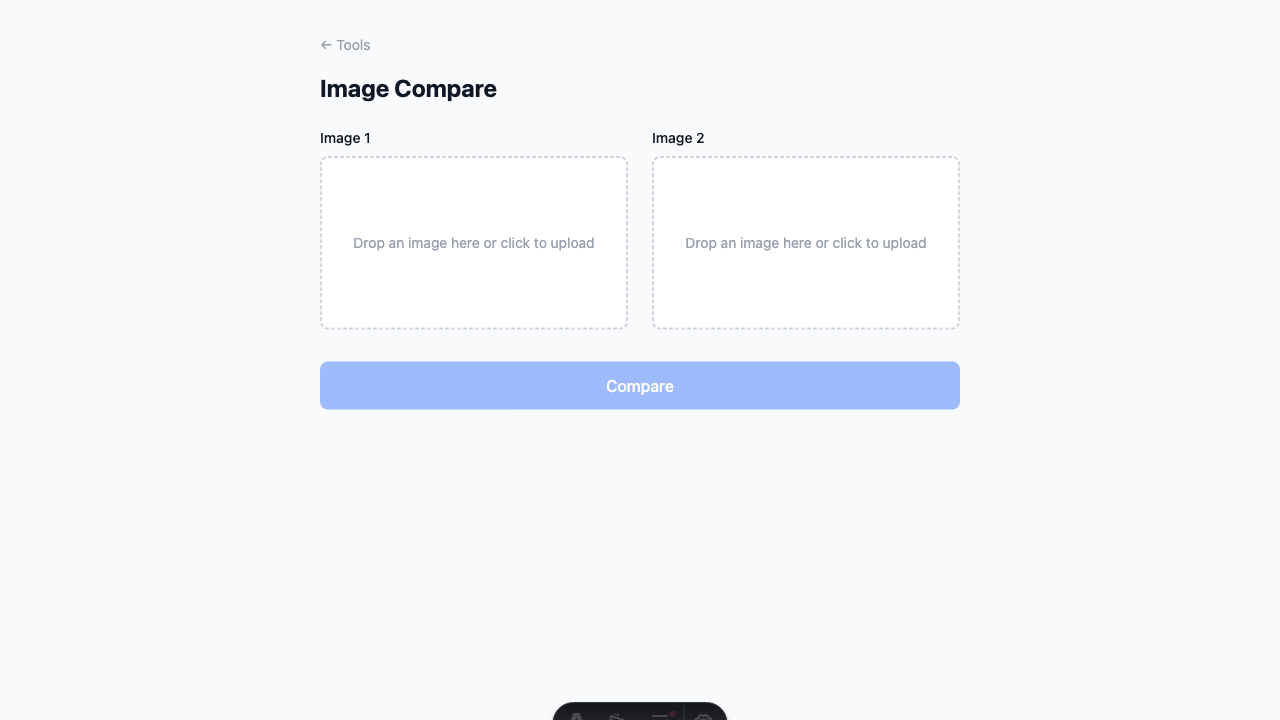
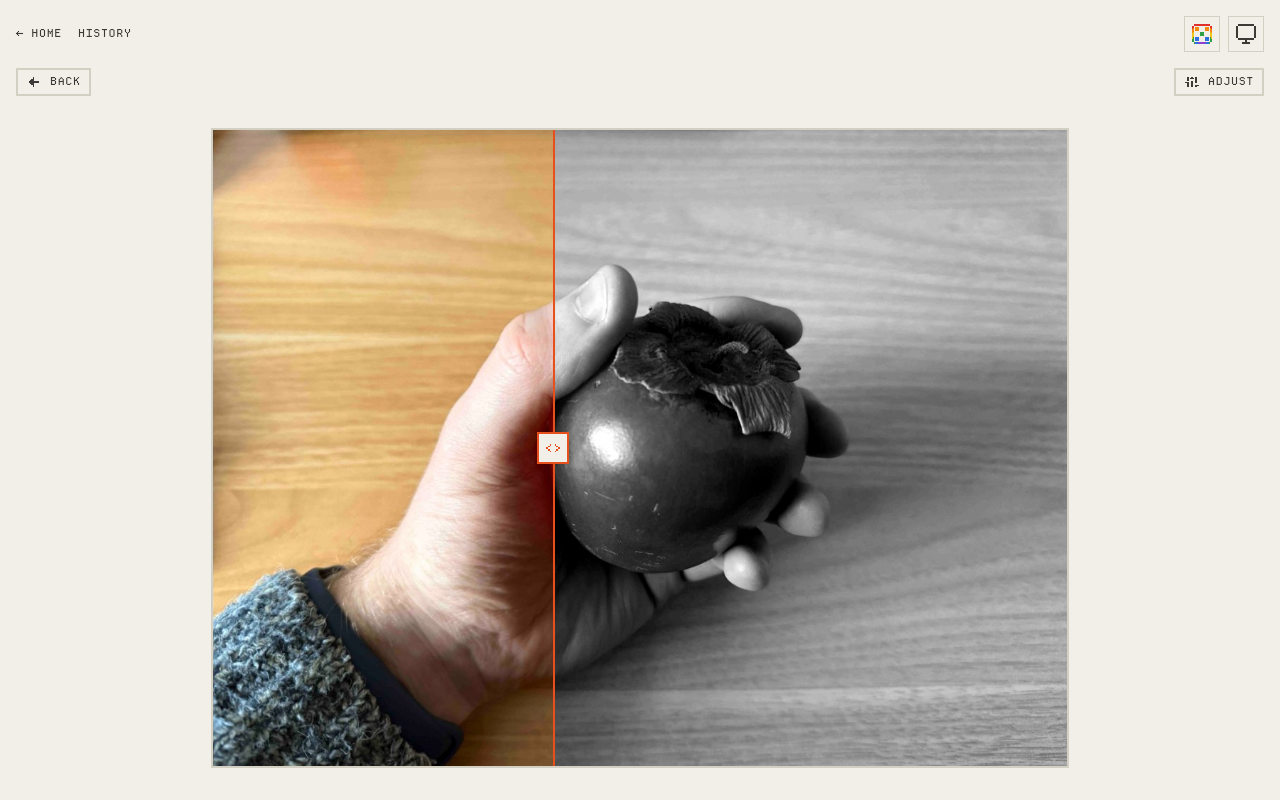
feat(image-compare): the tool sits on PixelAppLayout, wide, and draws its slots, divider and adjust bar from the pixel kit (#84)
- **The page is `wide`**
  - two slots side by side and the overlay both want the window's width, not the notes' 720px column
- **Each slot is a `FileDrop`**
  - the slot's own drag state and hidden input go; "Drop to replace" shows from `.pixel-file`'s `data-dragover`
  - "Tap to replace" is now a hint inside the picker rather than its own button, since the whole slot opens the picker
- **The compare view no longer forces a dark page**
  - it follows the theme like the rest of the site; the divider and its handle are `accent`, with no shadow
  - the two `#666` strokes on the handle's arrows became a pixelarticons chevron in `currentColor`
- **The app bar comes from the layout**
  - the tool's nav row, theme toggle and history link go, and with them the `historyUrl` prop
- **Saved state is untouched**
  - `localStorage["image-compare"]` keeps its key and shape; the storage-contract test still passes
- **The card's screenshot is dithered as `image`**
  - it is mostly the photo pair under the divider

diff --git a/src/pages/image-compare/_app/app.jsx b/src/pages/image-compare/_app/app.jsx
@@ -1,6 +1,12 @@
 import React, { useState, useRef, useCallback, useEffect } from 'react';
 import { createRoot } from 'react-dom/client';
-import { ThemeToggle } from '../../../components/ThemeToggle.jsx';
+import imageIcon from 'pixelarticons/svg/image.svg?raw';
+import swapIcon from 'pixelarticons/svg/arrows-horizontal.svg?raw';
+import backIcon from 'pixelarticons/svg/arrow-left.svg?raw';
+import adjustIcon from 'pixelarticons/svg/sliders.svg?raw';
+import handleIcon from 'pixelarticons/svg/chevrons-horizontal.svg?raw';
+import { FileDrop } from '../../../components/pixel/FileDrop.jsx';
+import { Icon } from '../../../components/pixel/Icon.jsx';
 
 const MAX_DIM = 2000;
 const QUALITY = 0.85;
@@ -49,146 +55,70 @@ function saveStored(data) {
 }
 
 function ImageSlot({ label, value, onImage }) {
-  const [dragOver, setDragOver] = useState(false);
-  const inputRef = useRef(null);
-
   const processFile = async (file) => {
     if (!file || !file.type.startsWith('image/')) return;
     const dataUrl = await compressImage(file);
     onImage(dataUrl);
   };
 
-  const handleDrop = (e) => {
-    e.preventDefault();
-    setDragOver(false);
-    processFile(e.dataTransfer.files?.[0]);
-  };
-
-  if (value) {
-    return (
-      <div>
-        <label className="block text-sm font-medium mb-2">{label}</label>
-        <div
-          className={`relative border-2 rounded-lg overflow-hidden aspect-video bg-white dark:bg-gray-800 group ${
-            dragOver
-              ? 'border-blue-400 bg-blue-50 dark:bg-blue-900/20'
-              : 'border-gray-200 dark:border-gray-700'
-          }`}
-          onDrop={handleDrop}
-          onDragOver={(e) => { e.preventDefault(); setDragOver(true); }}
-          onDragLeave={() => setDragOver(false)}
-        >
-          <img src={value} alt={label} className="w-full h-full object-contain" />
-          {dragOver && (
-            <div className="absolute inset-0 bg-blue-500/20 flex items-center justify-center">
-              <span className="text-white text-sm font-medium bg-blue-600 px-3 py-1 rounded">
-                Drop to replace
-              </span>
-            </div>
-          )}
-          <button
-            onClick={() => inputRef.current?.click()}
-            className="absolute bottom-2 right-2 text-xs px-2 py-1 rounded bg-black/50 text-white sm:opacity-0 sm:group-hover:opacity-100 transition-opacity"
-          >
-            Tap to replace
-          </button>
-          <input
-            ref={inputRef}
-            type="file"
-            accept="image/*"
-            className="hidden"
-            onChange={(e) => processFile(e.target.files?.[0])}
-          />
-        </div>
-      </div>
-    );
-  }
-
   return (
-    <div>
-      <label className="block text-sm font-medium mb-2">{label}</label>
-      <div
-        onDrop={handleDrop}
-        onDragOver={(e) => { e.preventDefault(); setDragOver(true); }}
-        onDragLeave={() => setDragOver(false)}
-        onClick={() => inputRef.current?.click()}
-        className={`relative border-2 border-dashed rounded-lg overflow-hidden aspect-video flex items-center justify-center bg-white dark:bg-gray-800 transition-colors cursor-pointer ${
-          dragOver
-            ? 'border-blue-400 bg-blue-50 dark:bg-blue-900/20'
-            : 'border-gray-300 dark:border-gray-600 hover:border-gray-400 dark:hover:border-gray-500'
-        }`}
+    <div className="min-w-0">
+      <div className="label mb-2">{label}</div>
+      <FileDrop
+        accept="image/*"
+        onFiles={(files) => processFile(files[0])}
+        className="group aspect-video overflow-hidden"
       >
-        <span className="text-gray-400 text-sm text-center px-4">
-          Drop an image here or click to upload
-        </span>
-        <input
-          ref={inputRef}
-          type="file"
-          accept="image/*"
-          className="hidden"
-          onChange={(e) => processFile(e.target.files?.[0])}
-        />
-      </div>
+        {value ? (
+          <>
+            <img src={value} alt={label} className="absolute inset-0 w-full h-full object-contain" />
+            <span className="absolute inset-0 hidden group-data-dragover:flex items-center justify-center bg-bg/80 text-accent">
+              Drop to replace
+            </span>
+            <span className="absolute bottom-0 right-0 px-2 py-1 bg-bg border-t-2 border-l-2 border-border sm:opacity-0 sm:group-hover:opacity-100">
+              Tap to replace
+            </span>
+          </>
+        ) : (
+          <>
+            <Icon svg={imageIcon} className="w-8 h-8" />
+            <span>Drop an image here or click to upload</span>
+          </>
+        )}
+      </FileDrop>
     </div>
   );
 }
 
-function UploadScreen({ historyUrl, image1, image2, onImage, onSwap, onCompare }) {
+function UploadScreen({ image1, image2, onImage, onSwap, onCompare }) {
   return (
-    <div className="min-h-screen bg-gray-50 dark:bg-gray-900 text-gray-900 dark:text-gray-100">
-      <div className="max-w-2xl mx-auto px-4 py-8">
-        <nav className="flex items-center gap-3 text-sm text-gray-400">
-          <a
-            href="../"
-            className="inline-flex items-center gap-1 hover:text-gray-600 dark:hover:text-gray-300 transition-colors"
-          >
-            ← Home
-          </a>
-          {historyUrl && (
-            <a
-              href={historyUrl}
-              target="_blank"
-              rel="noopener"
-              className="hover:text-gray-600 dark:hover:text-gray-300 transition-colors"
-            >
-              history
-            </a>
-          )}
-          <ThemeToggle className="ml-auto" />
-        </nav>
+    <div className="text-text">
+      <h1 className="page-title mt-4 mb-2">Image Compare</h1>
+      <p className="page-sub mt-0 mb-8">Lay two images over each other and drag a divider across to compare them. Everything stays in your browser.</p>
 
-        <h1 className="text-2xl font-bold mt-4 mb-6">Image Compare</h1>
+      <div className="grid grid-cols-1 sm:grid-cols-2 gap-6 mb-8 items-end">
+        <ImageSlot label="Image 1" value={image1} onImage={(v) => onImage('image1', v)} />
 
-        <div className="grid grid-cols-1 sm:grid-cols-2 gap-6 mb-8 items-end">
-          <ImageSlot label="Image 1" value={image1} onImage={(v) => onImage('image1', v)} />
+        {image1 && image2 && (
+          <div className="flex justify-center sm:col-span-2 sm:order-3 -my-2 sm:my-0">
+            <button onClick={onSwap} className="pixel-button flex items-center gap-2" title="Swap images">
+              <Icon svg={swapIcon} className="w-4 h-4" />
+              Swap
+            </button>
+          </div>
+        )}
 
-          {image1 && image2 && (
-            <div className="flex justify-center sm:col-span-2 sm:order-3 -my-2 sm:my-0">
-              <button
-                onClick={onSwap}
-                className="inline-flex items-center gap-1.5 text-sm px-3 py-1.5 rounded-full border border-gray-300 dark:border-gray-600 text-gray-500 dark:text-gray-400 hover:text-gray-700 dark:hover:text-gray-200 hover:border-gray-400 dark:hover:border-gray-500 transition-colors"
-                title="Swap images"
-              >
-                <svg width="16" height="16" viewBox="0 0 16 16" fill="none" stroke="currentColor" strokeWidth="1.5" strokeLinecap="round" strokeLinejoin="round">
-                  <path d="M3 5h10M10 2l3 3-3 3" />
-                  <path d="M13 11H3M6 8l-3 3 3 3" />
-                </svg>
-                Swap
-              </button>
-            </div>
-          )}
-
-          <ImageSlot label="Image 2" value={image2} onImage={(v) => onImage('image2', v)} />
-        </div>
-
-        <button
-          disabled={!image1 || !image2}
-          onClick={onCompare}
-          className="w-full py-3 px-6 rounded-lg font-medium text-white bg-blue-600 hover:bg-blue-700 disabled:opacity-40 disabled:cursor-not-allowed transition-colors"
-        >
-          Compare
-        </button>
+        <ImageSlot label="Image 2" value={image2} onImage={(v) => onImage('image2', v)} />
       </div>
+
+      <button
+        disabled={!image1 || !image2}
+        onClick={onCompare}
+        className="pixel-button w-full py-2"
+        data-variant="primary"
+      >
+        Compare
+      </button>
     </div>
   );
 }
@@ -415,28 +345,24 @@ function CompareScreen({ image1, image2, transform1, transform2, onTransformChan
   };
 
   return (
-    <div className="min-h-screen bg-gray-900 text-gray-100 flex flex-col">
-      <div className="px-4 py-3 flex items-center justify-between">
-        <button
-          onClick={onBack}
-          className="inline-flex items-center gap-1 text-sm text-gray-400 hover:text-gray-300 transition-colors"
-        >
-          ← Back
+    <div className="flex-1 flex flex-col gap-4 text-text">
+      <div className="flex items-center justify-between gap-2">
+        <button onClick={onBack} className="pixel-button flex items-center gap-2">
+          <Icon svg={backIcon} className="w-4 h-4" />
+          Back
         </button>
         {mode === 'locked' && (
-          <button
-            onClick={() => setMode('adjusting')}
-            className="text-sm px-3 py-1.5 rounded border border-gray-600 text-gray-400 hover:text-gray-200 hover:border-gray-500 transition-colors"
-          >
+          <button onClick={() => setMode('adjusting')} className="pixel-button flex items-center gap-2">
+            <Icon svg={adjustIcon} className="w-4 h-4" />
             Adjust
           </button>
         )}
       </div>
 
-      <div className="flex-1 flex items-center justify-center p-4">
+      <div className="flex-1 flex items-center justify-center min-h-0">
         <div
           ref={containerRef}
-          className={`relative select-none touch-none overflow-hidden ${
+          className={`relative select-none touch-none overflow-hidden border-2 border-border ${
             mode === 'locked' ? 'cursor-ew-resize' : 'cursor-grab active:cursor-grabbing'
           }`}
           style={{ maxWidth: '100%', maxHeight: mode === 'adjusting' ? '65vh' : '80vh' }}
@@ -477,74 +403,62 @@ function CompareScreen({ image1, image2, transform1, transform2, onTransformChan
             className="absolute top-0 bottom-0 z-10 pointer-events-none"
             style={{ left: `${sliderPos}%`, transform: 'translateX(-50%)' }}
           >
-            <div className="w-0.5 h-full bg-white" style={{ boxShadow: '0 0 4px rgba(0,0,0,0.5)' }} />
-            <div
-              className="absolute top-1/2 -translate-y-1/2 -translate-x-1/2 w-10 h-10 rounded-full bg-white flex items-center justify-center"
-              style={{ boxShadow: '0 0 6px rgba(0,0,0,0.4)' }}
-            >
-              <svg width="18" height="18" viewBox="0 0 16 16" fill="none">
-                <path d="M5 3L2 8L5 13" stroke="#666" strokeWidth="1.5" strokeLinecap="round" strokeLinejoin="round"/>
-                <path d="M11 3L14 8L11 13" stroke="#666" strokeWidth="1.5" strokeLinecap="round" strokeLinejoin="round"/>
-              </svg>
+            <div className="w-0.5 h-full bg-accent" />
+            <div className="absolute top-1/2 -translate-y-1/2 -translate-x-1/2 w-8 h-8 bg-bg border-2 border-accent text-accent flex items-center justify-center">
+              <Icon svg={handleIcon} className="w-5 h-5" />
             </div>
           </div>
 
-          {/* Adjusting mode indicator */}
           {mode === 'adjusting' && (
-            <div className="absolute top-2 left-2 z-20 text-xs px-2 py-1 rounded bg-blue-600/80 text-white">
+            <div className="label absolute top-0 left-0 z-20 px-2 py-1 bg-accent text-bg">
               Adjusting Image {activeNum}
             </div>
           )}
         </div>
       </div>
 
-      {/* Adjust toolbar */}
       {mode === 'adjusting' && (
-        <div className="px-4 py-3 border-t border-gray-700 space-y-3">
+        <div className="pixel-panel p-4 flex flex-col gap-4">
           <div className="flex items-center gap-3">
-            <label className="text-xs text-gray-400 shrink-0 w-12">Rotate</label>
+            <label htmlFor="rotate" className="label shrink-0 w-14">Rotate</label>
             <input
+              id="rotate"
               type="range"
               min="-180"
               max="180"
               value={activeTransform.rotation}
               onChange={(e) => handleRotation(Number(e.target.value))}
-              className="flex-1 accent-blue-500"
+              className="pixel-range flex-1 min-w-0"
             />
-            <span className="text-xs text-gray-400 w-10 text-right tabular-nums">{activeTransform.rotation}°</span>
+            <span className="font-pixel text-pixel tabular-nums w-12 text-right">{activeTransform.rotation}°</span>
           </div>
 
           <div className="flex items-center gap-3">
-            <label className="text-xs text-gray-400 shrink-0 w-12">Zoom</label>
+            <label htmlFor="zoom" className="label shrink-0 w-14">Zoom</label>
             <input
+              id="zoom"
               type="range"
               min="25"
               max="400"
               value={Math.round(activeTransform.scale * 100)}
               onChange={(e) => handleScale(Number(e.target.value))}
-              className="flex-1 accent-blue-500"
+              className="pixel-range flex-1 min-w-0"
             />
-            <span className="text-xs text-gray-400 w-10 text-right tabular-nums">{Math.round(activeTransform.scale * 100)}%</span>
+            <span className="font-pixel text-pixel tabular-nums w-12 text-right">{Math.round(activeTransform.scale * 100)}%</span>
           </div>
 
-          <div className="flex items-center justify-between pt-1">
+          <div className="flex flex-wrap items-center justify-between gap-2">
             <button
               onClick={() => onTransformChange(activeImage, { ...DEFAULT_TRANSFORM })}
-              className="text-xs px-3 py-1.5 rounded border border-gray-600 text-gray-400 hover:text-gray-200 hover:border-gray-500 transition-colors"
+              className="pixel-button"
             >
               Reset
             </button>
             <div className="flex gap-2">
-              <button
-                onClick={() => setActiveImage(otherImage)}
-                className="text-xs px-3 py-1.5 rounded border border-gray-600 text-gray-400 hover:text-gray-200 hover:border-gray-500 transition-colors"
-              >
+              <button onClick={() => setActiveImage(otherImage)} className="pixel-button">
                 Switch to Image {otherNum}
               </button>
-              <button
-                onClick={() => setMode('locked')}
-                className="text-xs px-3 py-1.5 rounded bg-blue-600 text-white hover:bg-blue-700 transition-colors"
-              >
+              <button onClick={() => setMode('locked')} className="pixel-button" data-variant="primary">
                 Lock
               </button>
             </div>
@@ -555,7 +469,7 @@ function CompareScreen({ image1, image2, transform1, transform2, onTransformChan
   );
 }
 
-export function App({ historyUrl }) {
+export function App() {
   const [view, setView] = useState('upload');
   const [data, setData] = useState(loadStored);
 
@@ -605,7 +519,6 @@ export function App({ historyUrl }) {
 
   return (
     <UploadScreen
-      historyUrl={historyUrl}
       image1={data.image1}
       image2={data.image2}
       onImage={handleImage}
@@ -616,4 +529,4 @@ export function App({ historyUrl }) {
 }
 
 const mount = document.getElementById('app');
-if (mount) createRoot(mount).render(<App historyUrl={mount.dataset.historyUrl} />);
+if (mount) createRoot(mount).render(<App />);
